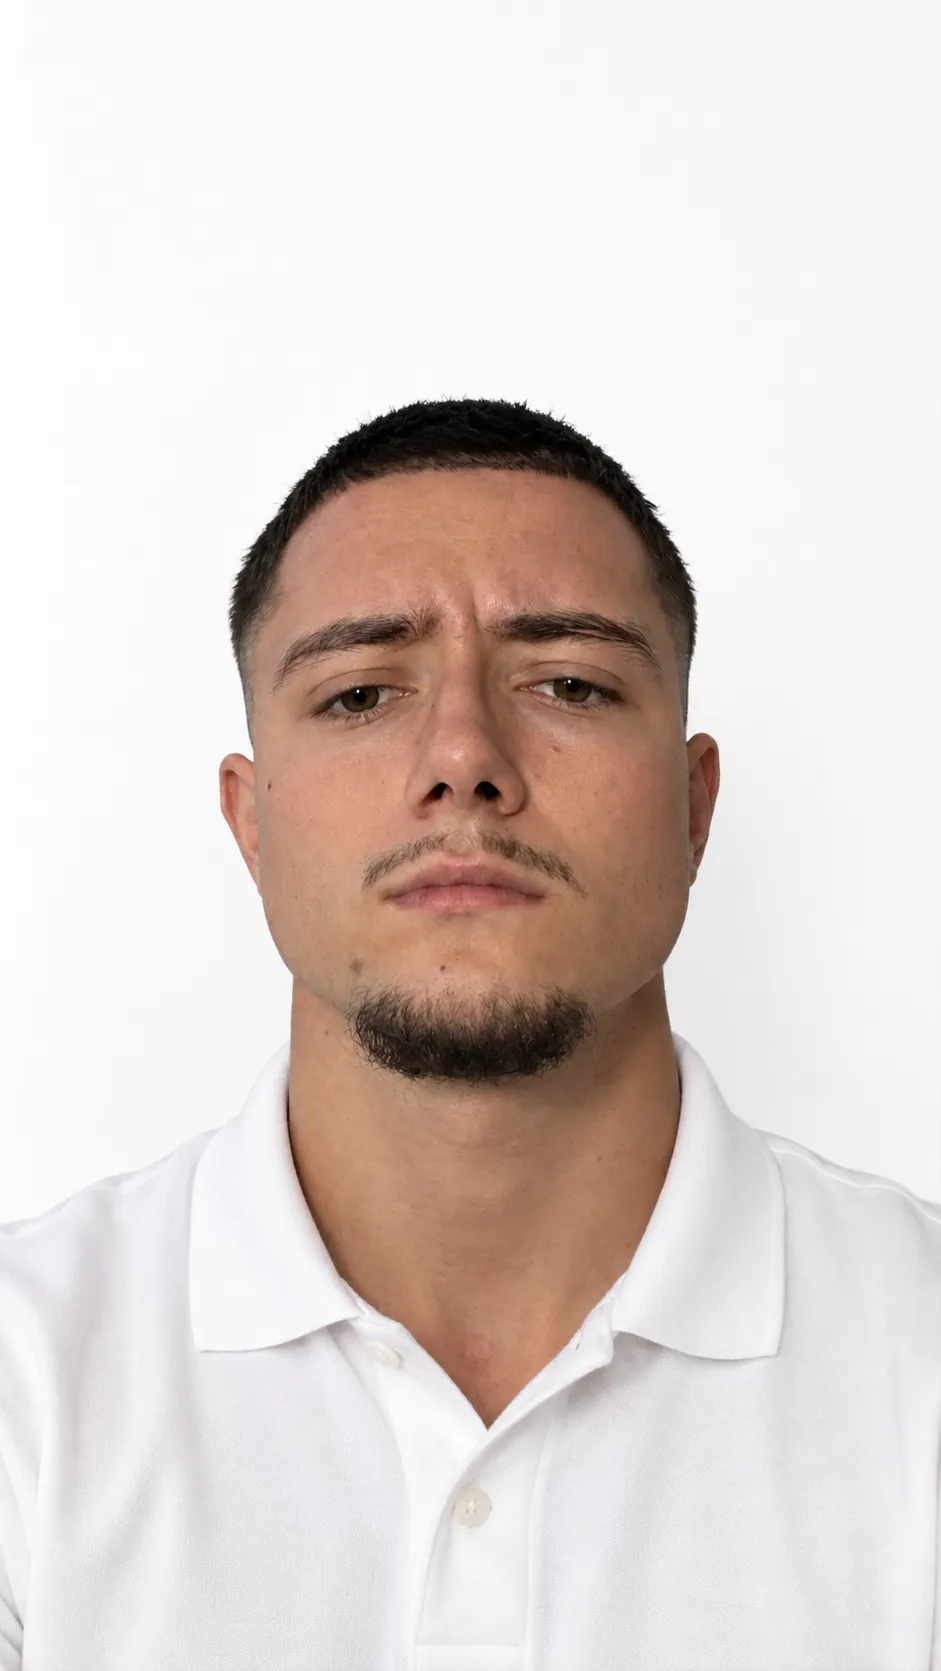
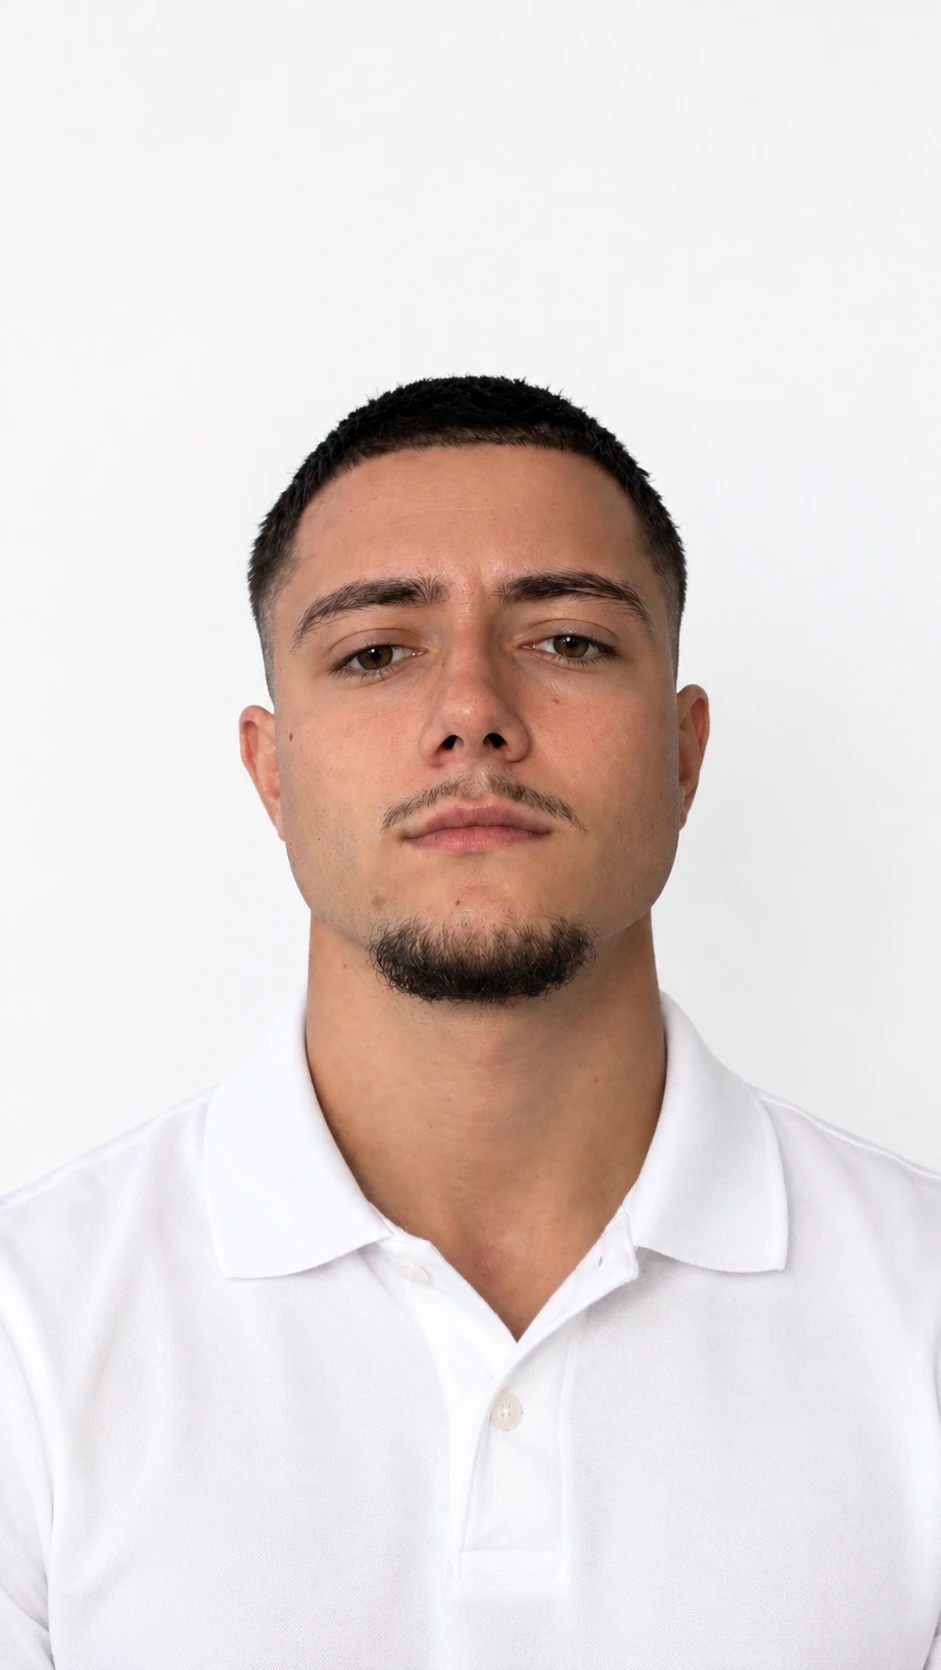
change my pics

diff --git a/js/main.js b/js/main.js
@@ -345,7 +345,7 @@ function viewAbout(){
   const vc = [["o","lilac"],["q","mint"],["s","peach"]];
   return `<section class="wrap about fade">
     <div class="about-side"><div class="about-head"><span class="mono">Pierre Matthey · ${t("role")}</span><h1 style="margin-top:10px">${t("about_title")}</h1></div>
-      <div class="portrait"><img src="img/about/portrait.webp" alt="${t("photo")}" width="941" height="1671"></div></div>
+      <div class="portrait"><img src="img/about/portrait.webp" alt="${t("photo")}" width="941" height="1670"></div></div>
     <div class="bio">${t("bio").map(p=>`<p>${esc(p)}</p>`).join("")}
       ${t("tl").map(g=>`<h3 class="tl-h">${esc(g[0])}</h3><div class="tl">${g[1].map(r=>`<div><span class="mono">${esc(r[0])}</span><div><b>${esc(r[1])}</b><p>${esc(r[2])}</p></div></div>`).join("")}</div>`).join("")}
       <div class="values">${t("values").map((v,k)=>`<div class="value">${shapeEl(vc[k][0],vc[k][1])}<b>${esc(v[0])}</b><p>${esc(v[1])}</p></div>`).join("")}</div>
